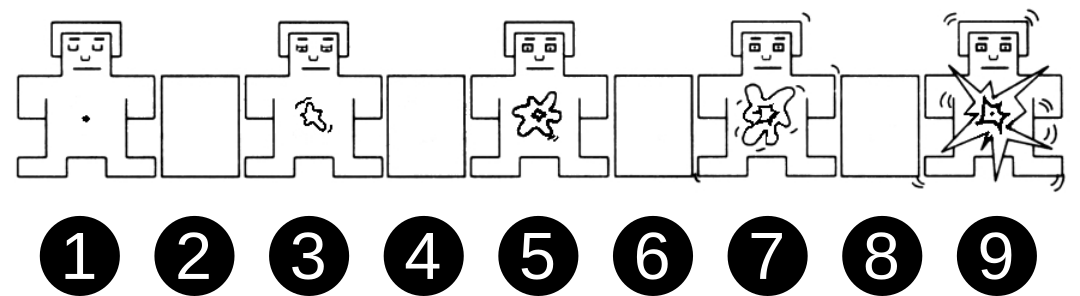
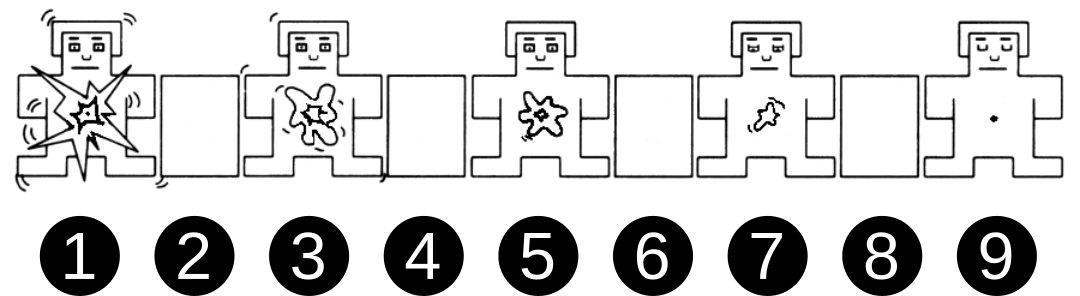
Used original images of arousal and valence.

Changed region(s): [[0.0, 0.0304, 1.0, 0.6385], [0.2444, 0.0304, 0.3361, 0.2432]]

diff --git a/stimulus_manager/self_assessment_manikin.py b/stimulus_manager/self_assessment_manikin.py
@@ -4,6 +4,7 @@ import cv2
 
 
 class SelfAssessmentManikin:
+    _acceptable_keys = frozenset(('1', '2', '3', '4', '5', '6', '7', '8', '9'))
 
     def __init__(self, time_limit: int) -> None:
         self._time_limit = time_limit
@@ -17,9 +18,8 @@ class SelfAssessmentManikin:
         valence_key = cv2.waitKey(self._time_limit * 500)
         cv2.imshow('stimulus', self._arousal_img)
         arousal_key = cv2.waitKey(self._time_limit * 500)
-        acceptable_keys = ('1', '2', '3', '4', '5', '6', '7', '8', '9')
-        if chr(valence_key) not in acceptable_keys or chr(
-                arousal_key) not in acceptable_keys:
+        if chr(valence_key) not in self._acceptable_keys or chr(
+                arousal_key) not in self._acceptable_keys:
             raise ValueError("Some not acceptable key was typed.")
-        self.valence = int(chr(valence_key))
-        self.arousal = int(chr(arousal_key))
+        self.valence = 10 - int(chr(valence_key))
+        self.arousal = 10 - int(chr(arousal_key))
